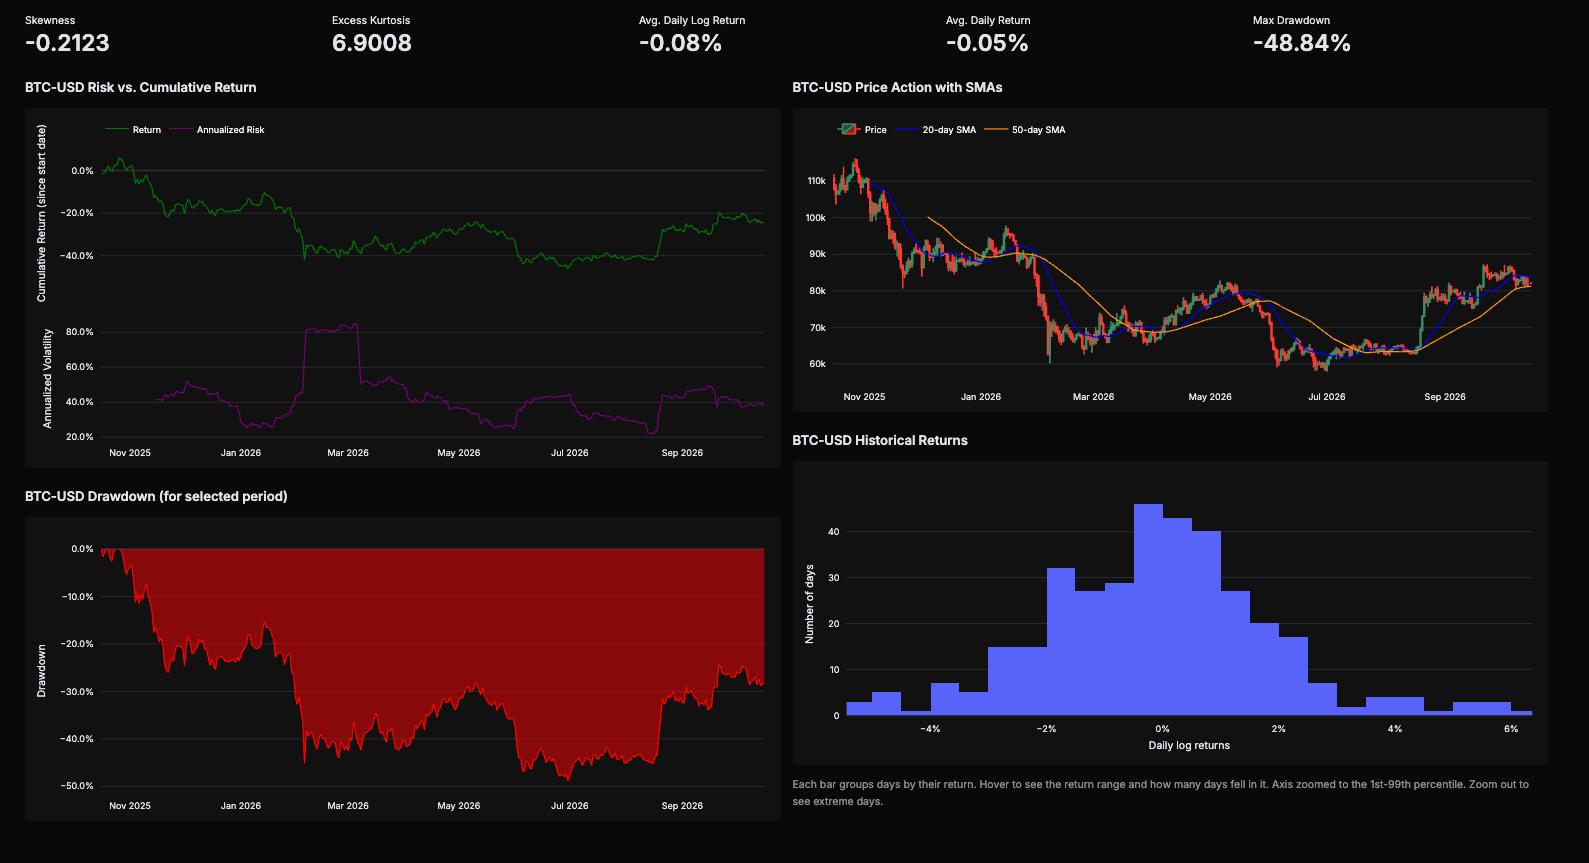
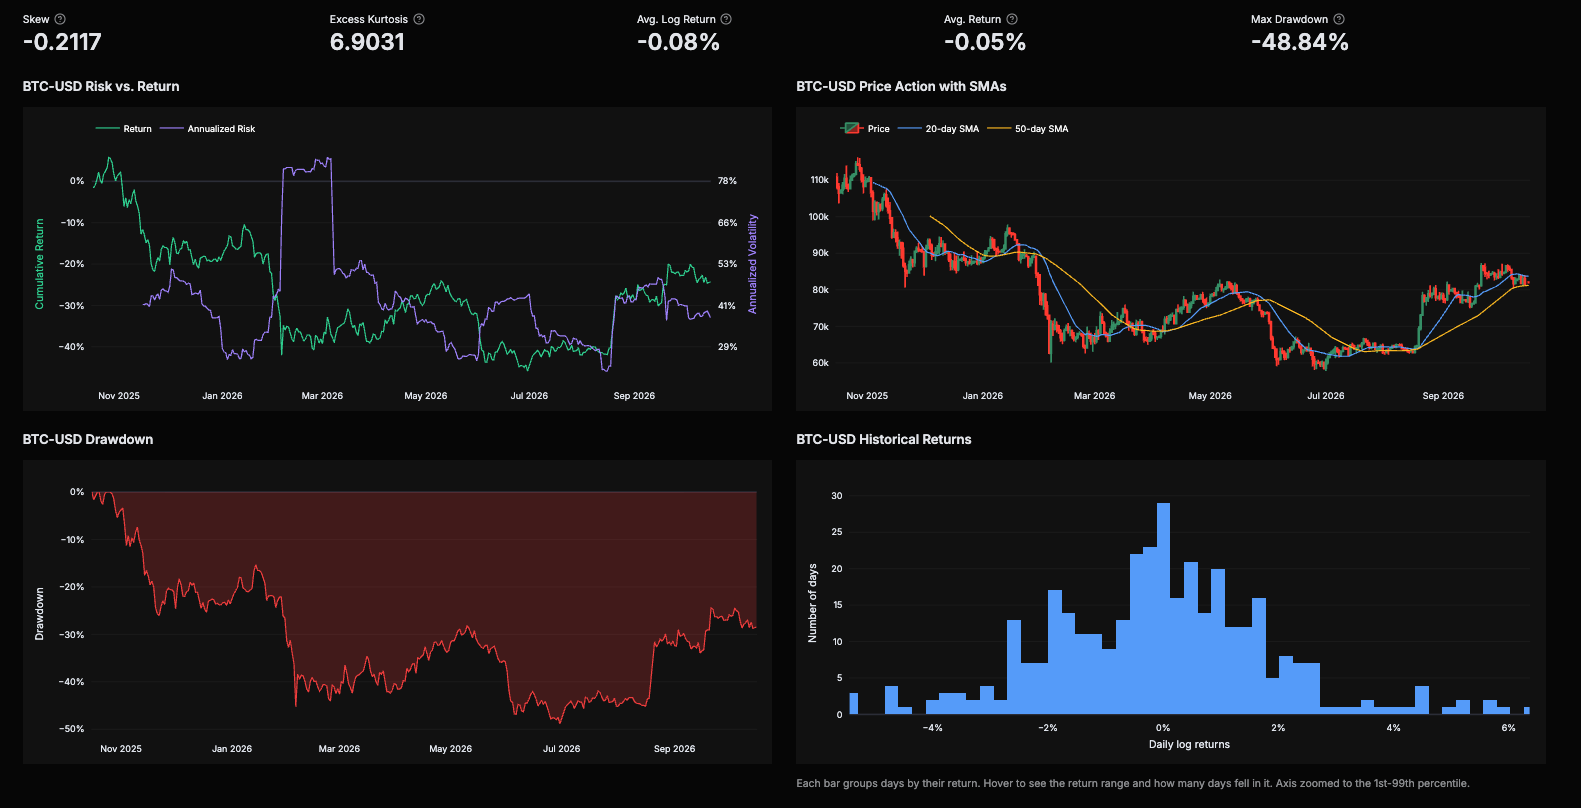
final ui fixes

diff --git a/app/app.py b/app/app.py
@@ -9,9 +9,9 @@ from plotly.subplots import make_subplots
 import yfinance as yf
 from datetime import timedelta
 from pathlib import Path
-st.set_page_config(layout="wide")
 ASSETS = Path(__file__).parent/"assets"
 st.logo(str(ASSETS / "logo-mark-256.png"), link="https://quartermasterlabs.com")
+st.set_page_config(layout="wide", page_title="Quartermaster", page_icon=str(ASSETS/"favicon-32.png"))
 #--------------------------------------------------------------#
 
 # Global Variables 
@@ -225,7 +225,7 @@ def visualize(df):
         mode='lines',
         name='Drawdown',
         line=dict(color='#EF4444', width=1.5),
-        fill='tozeroy'
+        fill='tozeroy', fillcolor="rgba(239,68,68,0.22)"
     ))
 
     drawdown_fig.update_yaxes(title_text="Drawdown", tickformat=pct_format(abs(df['drawdown'].min())))
@@ -368,11 +368,11 @@ if result:
 
         # Building the columns in streamlit 
         m1, m2, m3, m4, m5 = st.columns(5)
-        m1.metric(label="Skewness", value=round(enriched_data['skewness'].iloc[-1], 4))
-        m2.metric(label='Excess Kurtosis', value=round(enriched_data['kurtosis'].iloc[-1], 4))
-        m3.metric(label='Avg. Daily Log Return', value=f"{enriched_data['avg_daily_log_return'].iloc[-1]: .2%}")
-        m4.metric(label='Avg. Daily Return', value=f"{enriched_data['avg_daily_simple_return'].iloc[-1]: .2%}")
-        m5.metric(label="Max Drawdown",value=f"{enriched_data['max_drawdown'].iloc[-1]: .2%}")
+        m1.metric(label="Skew", value=round(enriched_data['skewness'].iloc[-1], 4), help="Asymmetry of daily log returns. Negative means the big moves tend to be drops.")
+        m2.metric(label='Excess Kurtosis', value=round(enriched_data['kurtosis'].iloc[-1], 4), help="Tail weight vs a normal distribution. 0 is normal; higher means extreme days are more common.")
+        m3.metric(label='Avg. Log Return', value=f"{enriched_data['avg_daily_log_return'].iloc[-1]: .2%}", help="Mean daily log return. Not annualised.")
+        m4.metric(label='Avg. Return', value=f"{enriched_data['avg_daily_simple_return'].iloc[-1]: .2%}", help="Mean daily simple return. Not annualised.")
+        m5.metric(label="Max Drawdown",value=f"{enriched_data['max_drawdown'].iloc[-1]: .2%}", help="Worst peak-to-trough fall over the selected period.")
 
         # Step 3: Build the charts  
         top_left, top_right = st.columns(2, gap="medium")
